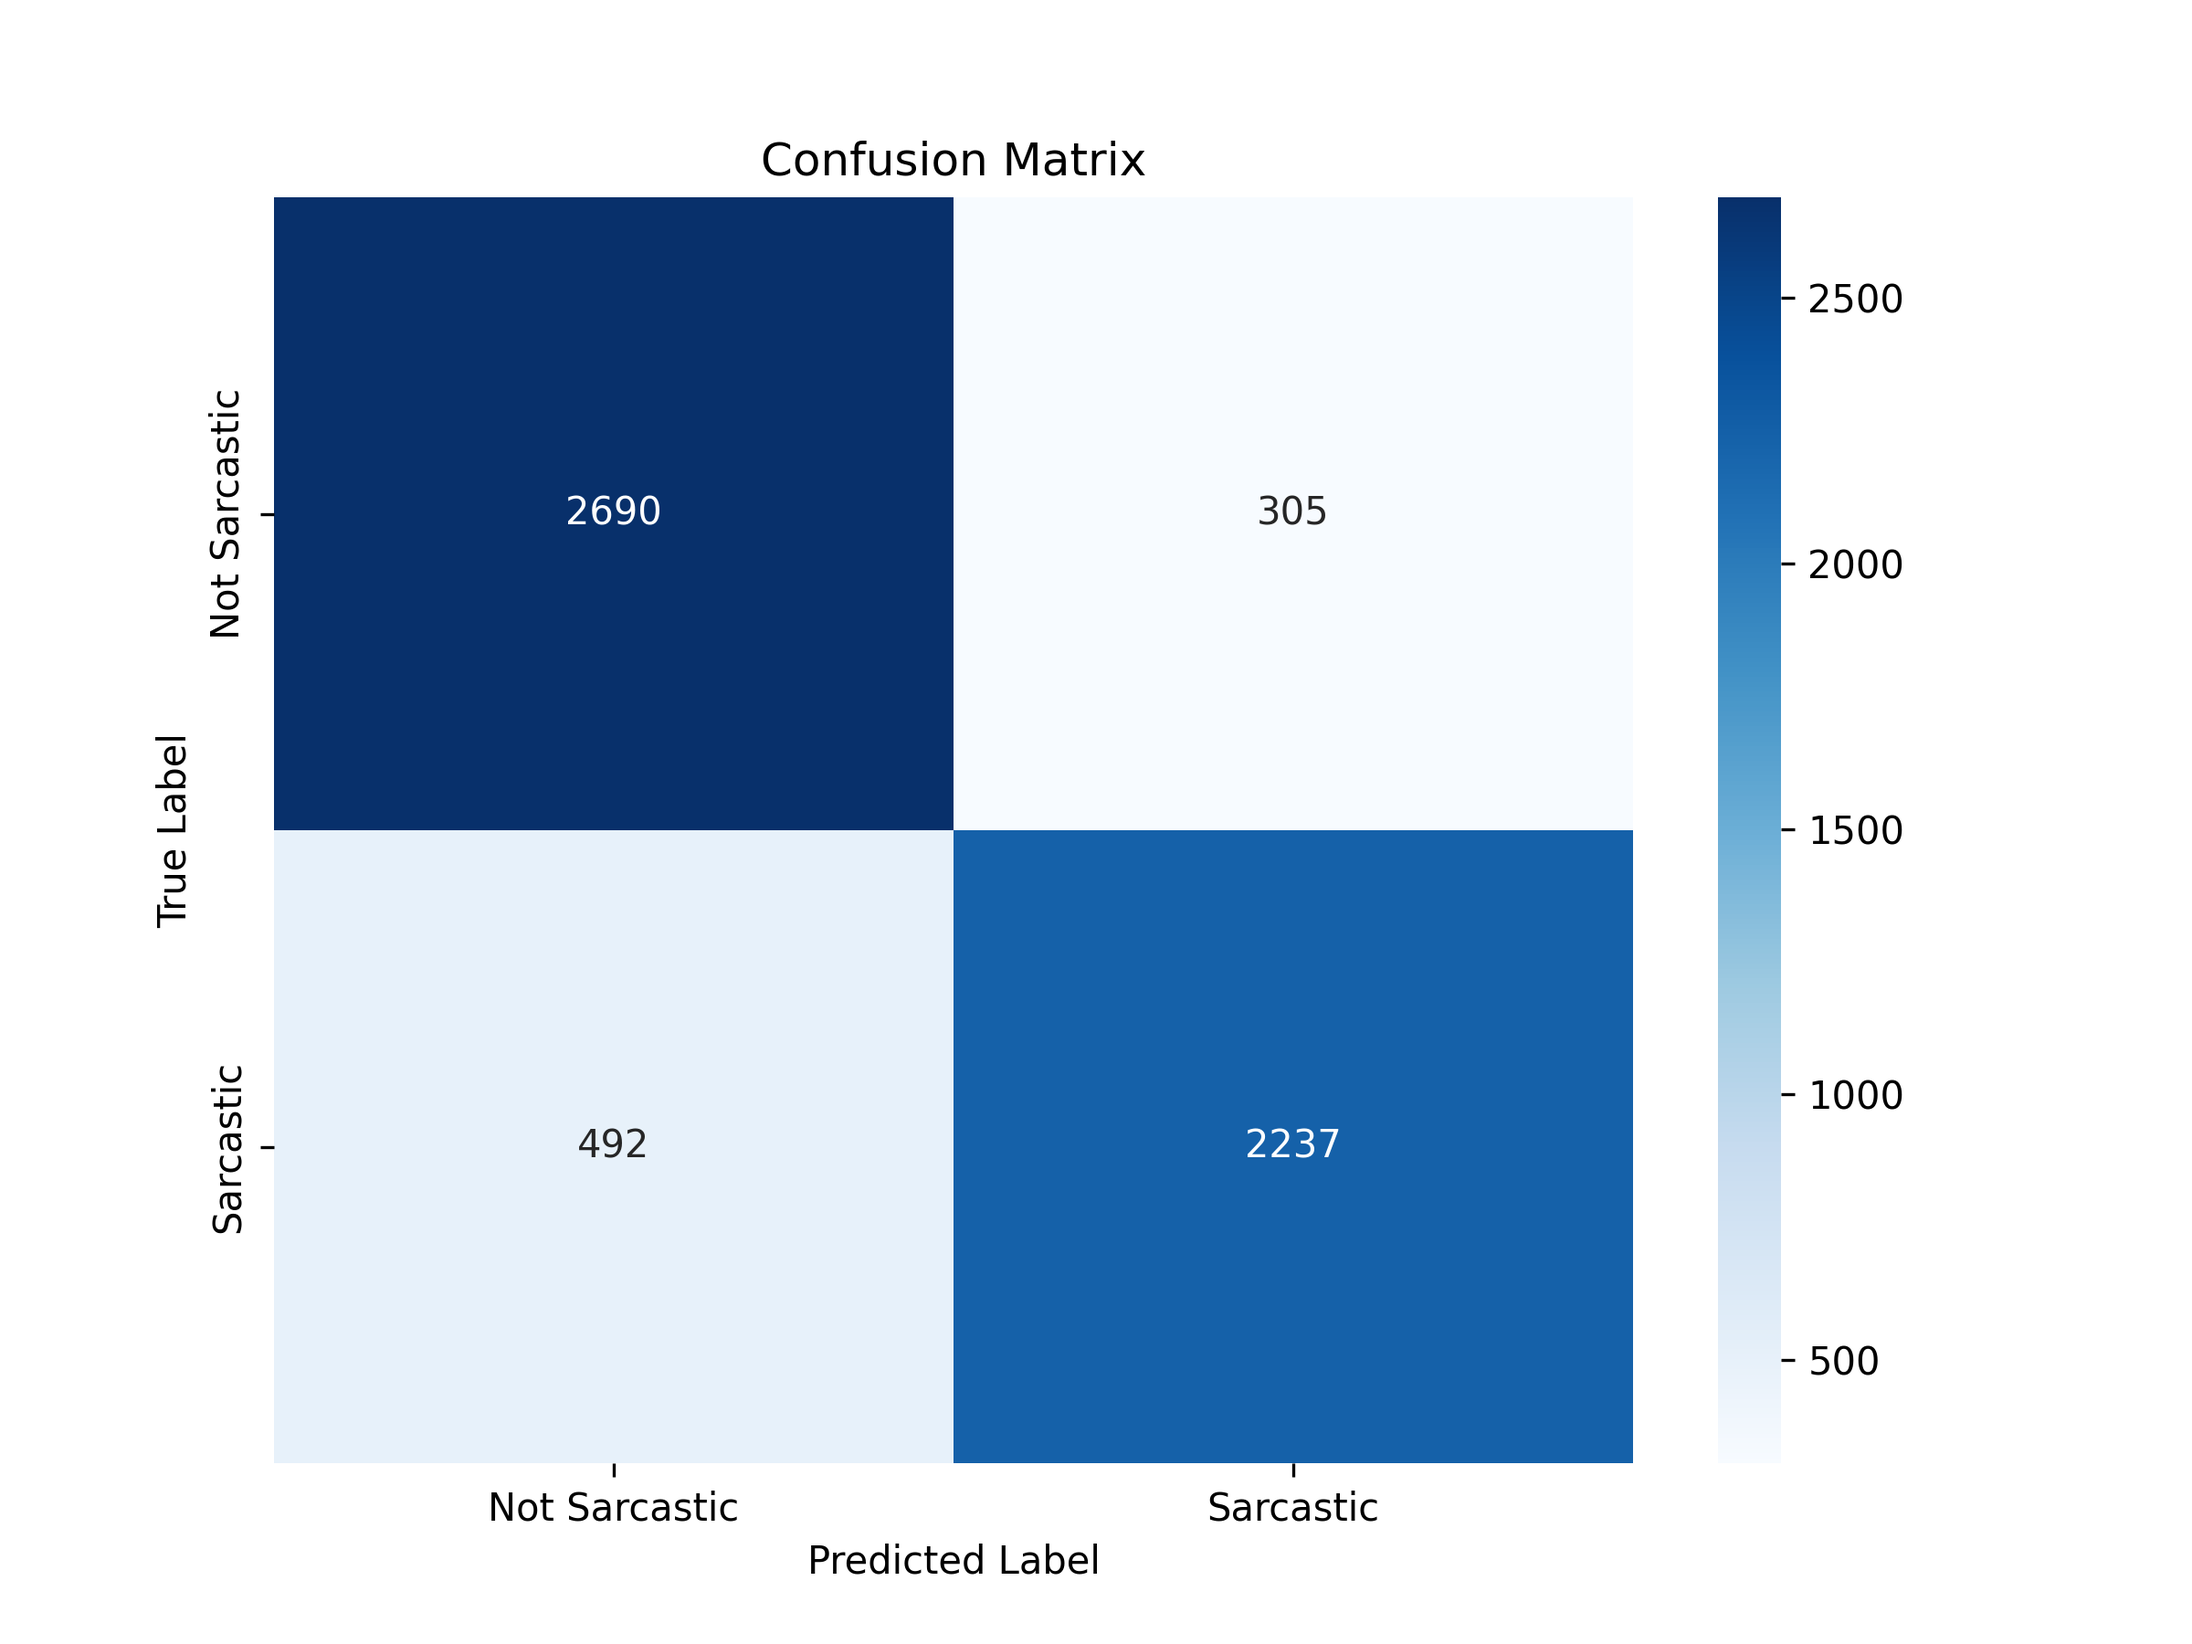
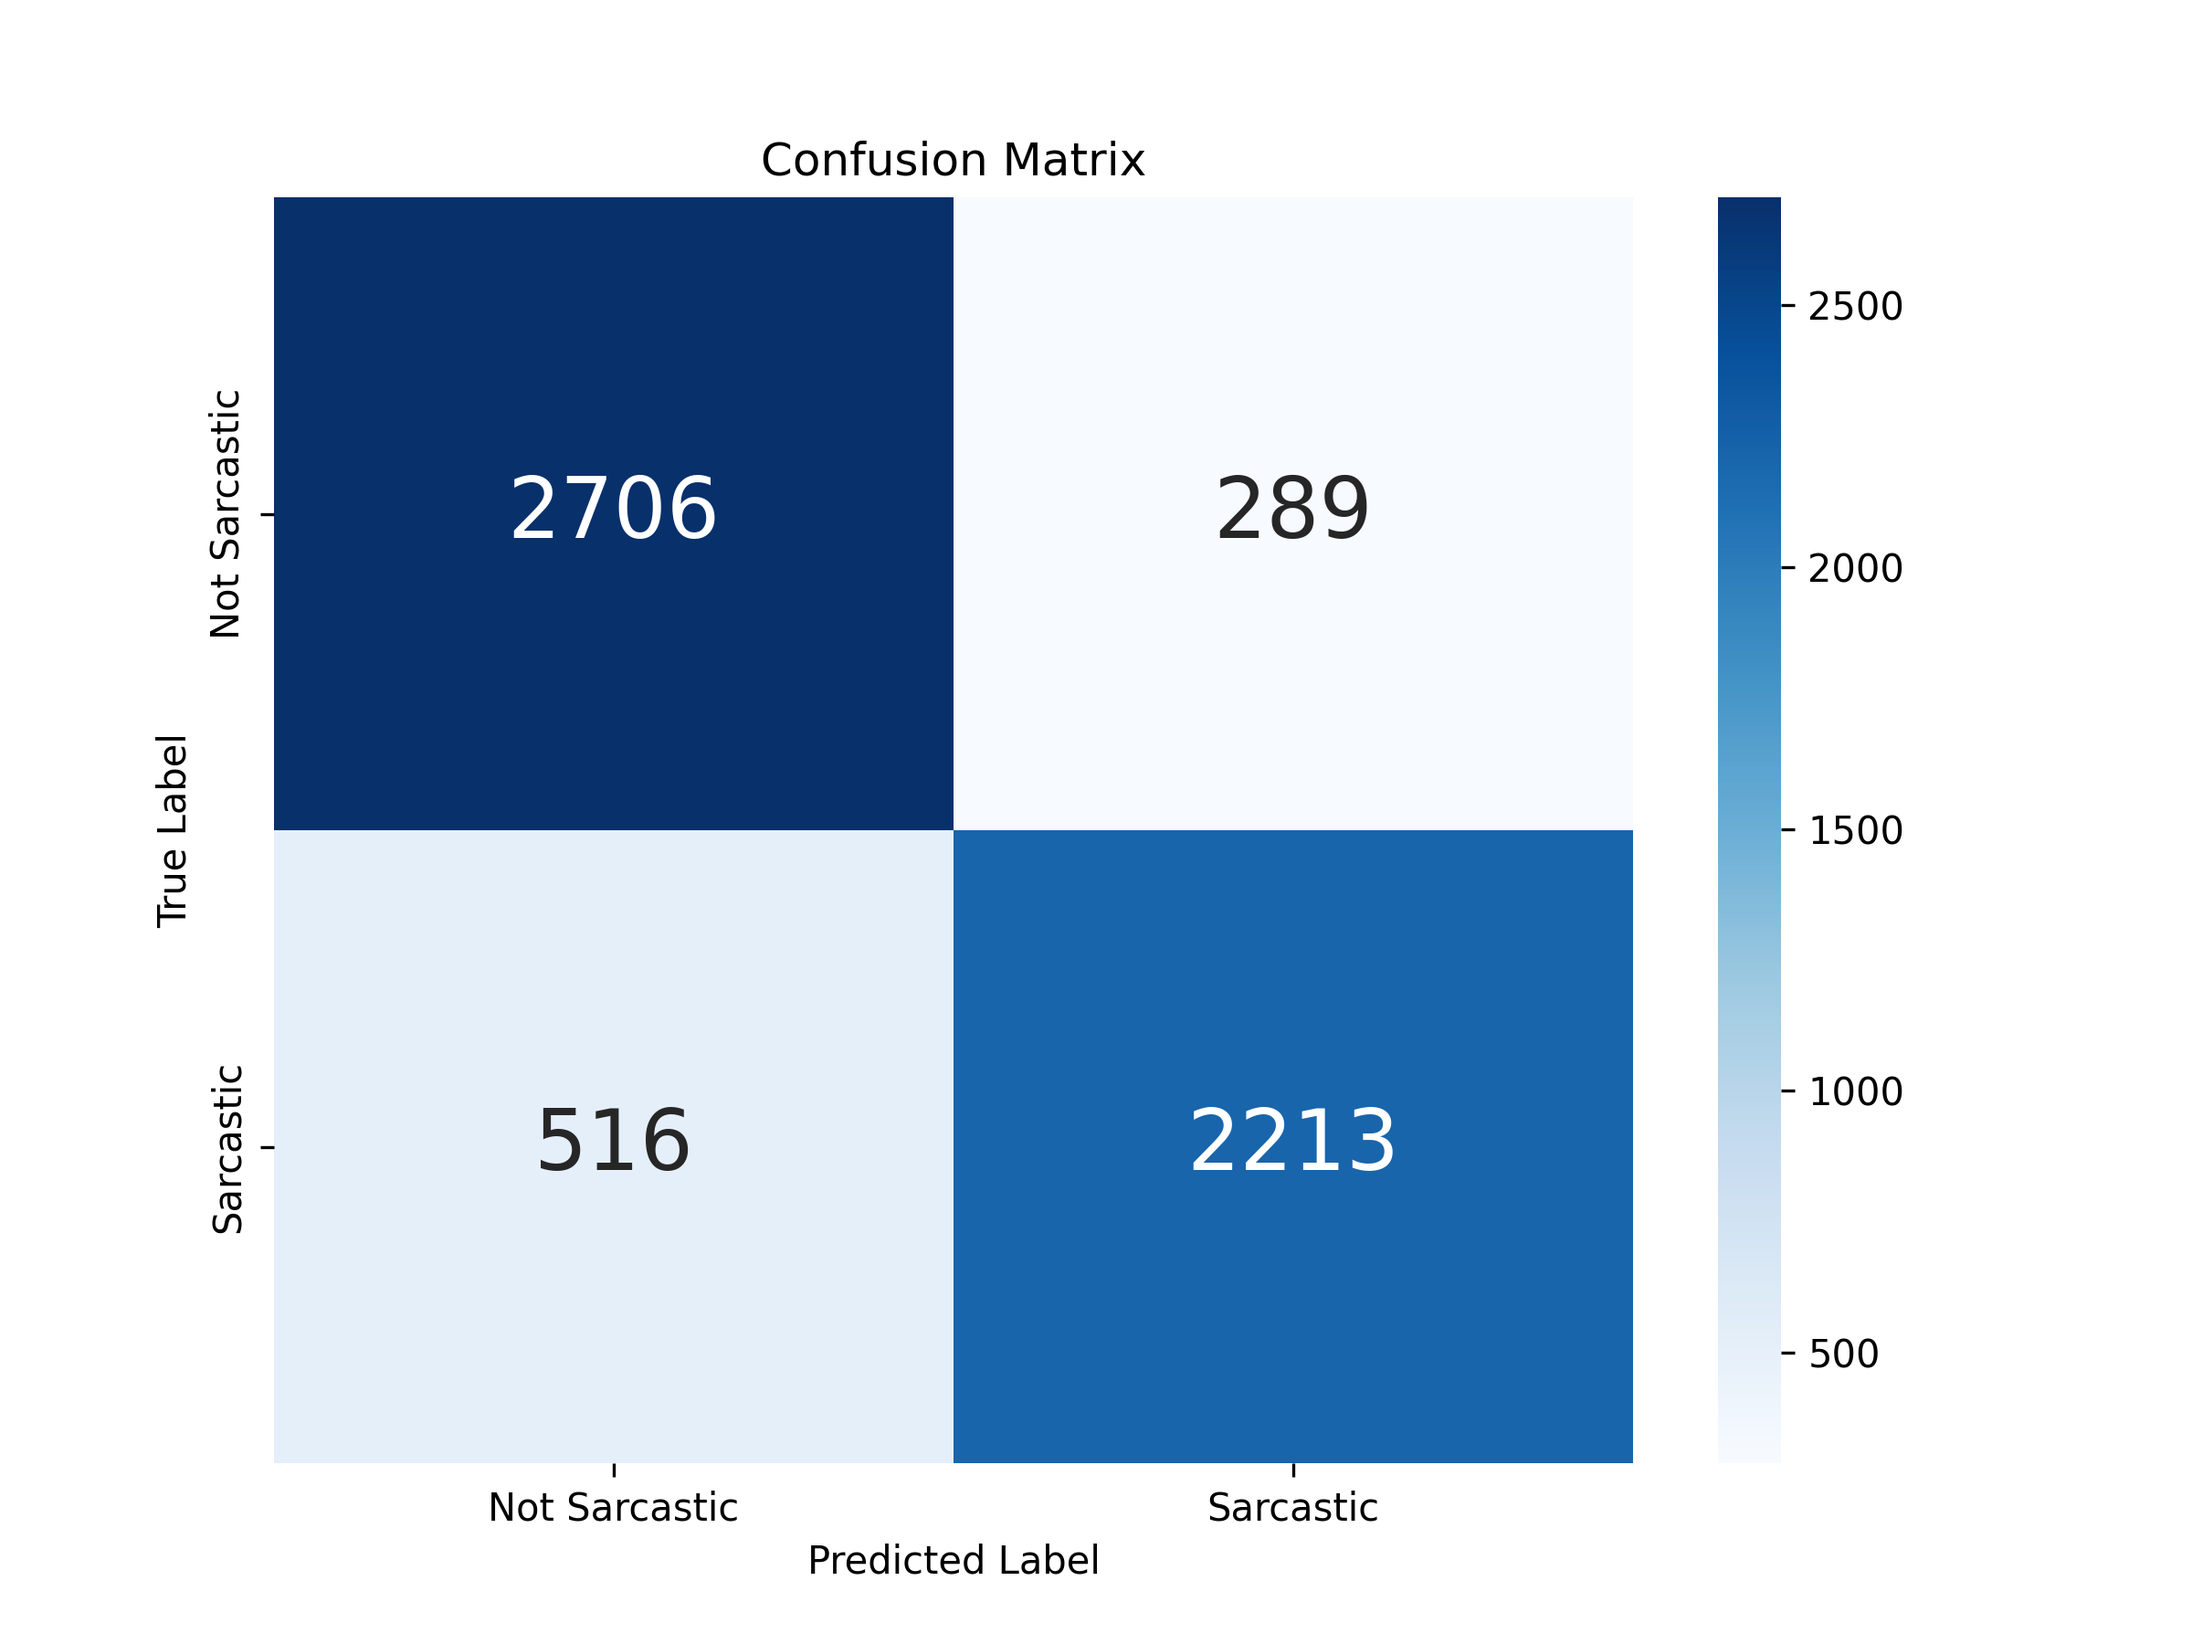
Changed Visuals

diff --git a/Bi-GRU/Bi-GRU.py b/Bi-GRU/Bi-GRU.py
@@ -20,8 +20,8 @@ MAX_LEN = 35
 VOCAB_SIZE = 12000
 EMBEDDING_DIM = 96
 BATCH_SIZE = 128
-EPOCHS = 40
-OUTPUT_DIR = "bigru_sarcasm_outputs"
+EPOCHS = 15
+OUTPUT_DIR = "Sarcasm_outputs"
 DATA_PATH = "../Dataset/Sarcasm_Headlines_Dataset_v2.json"
 ABBREV_PATH = "../Dataset/Abbreviations.csv"
 
@@ -166,7 +166,8 @@ plt.figure(figsize=(8, 6))
 cm = confusion_matrix(y_test, y_pred)
 sns.heatmap(cm, annot=True, fmt='d', cmap='Blues',
             xticklabels=['Not Sarcastic', 'Sarcastic'],
-            yticklabels=['Not Sarcastic', 'Sarcastic'])
+            yticklabels=['Not Sarcastic', 'Sarcastic'],
+            annot_kws={"size": 22} )
 plt.title('Confusion Matrix')
 plt.ylabel('True Label')
 plt.xlabel('Predicted Label')

diff --git a/Bi-LSTM/Bi-LSTM.py b/Bi-LSTM/Bi-LSTM.py
@@ -192,7 +192,8 @@ if __name__ == "__main__":
     cm = confusion_matrix(y_test, y_pred)
     sns.heatmap(cm, annot=True, fmt='d', cmap='Blues',
                 xticklabels=['Non-Sarcastic', 'Sarcastic'],
-                yticklabels=['Non-Sarcastic', 'Sarcastic'])
+                yticklabels=['Non-Sarcastic', 'Sarcastic'],
+                annot_kws={"size": 22} )
     plt.title('Confusion Matrix')
     plt.ylabel('True Label')
     plt.xlabel('Predicted Label')
